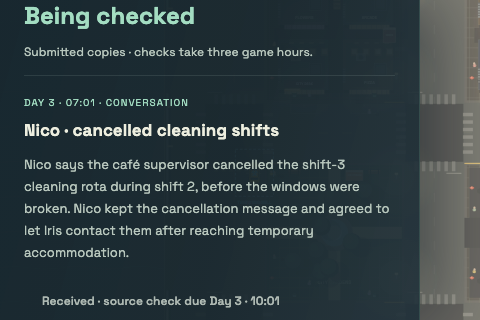
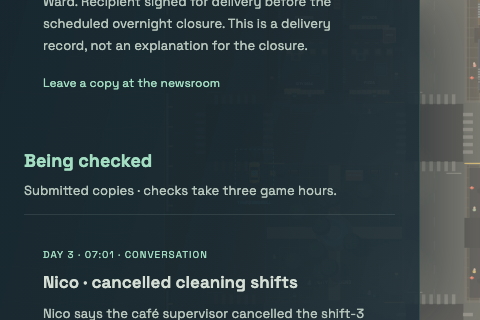
Group newsroom sources into selectable rows with Back-first pane focus

diff --git a/src/campaign/newsroom-view.test.ts b/src/campaign/newsroom-view.test.ts
@@ -49,23 +49,26 @@ describe('newsroom drawer', () => {
     expect(records.checking.map(e => e.id)).toEqual(['cleaner-note']);
     expect(records.checked).toEqual([]);
     const html = newsroomMarkup(game);
-    for (const [key, title] of [['to-submit', 'To submit'], ['checking', 'Being checked'], ['checked', 'Checked sources'], ['stories', 'Published stories']]) {
+    for (const [key, title] of [['sources', 'Sources'], ['stories', 'Published stories']]) {
       expect(html).toContain(`data-newsroom-section="${key}"`);
       expect(html).toContain(`<span>${title}</span>`);
       expect(html).toContain(`aria-controls="newsroom-detail" aria-pressed="false"`);
     }
     expect(html).not.toContain('data-record=');
+    const detail = newsroomMarkup(game, 'sources');
     for (const [key, entries] of [['to-submit', records.toSubmit], ['checking', records.checking], ['checked', records.checked]] as const) {
-      const detail = newsroomMarkup(game, key);
+      expect(html).not.toContain(`data-newsroom-section="${key}"`);
+      expect(detail).toContain(`id="newsroom-${key}"`);
+      const group = detail.split(`id="newsroom-${key}"`)[1].split('</section>')[0];
       for (const entry of entries) {
         expect(detail.match(new RegExp(`data-record="${entry.id}"`, 'g'))).toHaveLength(1);
-        expect(detail).toContain(recordMarkup(game, entry));
+        expect(group).toContain(recordMarkup(game, entry, true, true));
       }
       for (const id of ['conversation', 'ordinary-fare', 'bea-repair']) expect(detail).not.toContain(`data-record="${id}"`);
     }
-    expect(newsroomMarkup(game, 'checking')).toContain(`source check due ${calendarLabel(game.save.campaign.newsroom.received['cleaner-note'].at + 180)}`);
-    expect(newsroomMarkup(game, 'checking')).not.toContain('data-record="cafe-photo"');
-    expect(newsroomMarkup(game, 'to-submit')).not.toContain('data-record="cleaner-note"');
+    expect(detail).toContain(`source check due ${calendarLabel(game.save.campaign.newsroom.received['cleaner-note'].at + 180)}`);
+    expect(detail.indexOf('id="newsroom-to-submit"')).toBeLessThan(detail.indexOf('id="newsroom-checking"'));
+    expect(detail.indexOf('id="newsroom-checking"')).toBeLessThan(detail.indexOf('id="newsroom-checked"'));
     // A duplicated legacy entry cannot inflate the source list or summary.
     game.save.playerRecords.notebook.push({ ...records.toSubmit[0] });
     expect(newsroomRecords(game).toSubmit).toHaveLength(2);
@@ -80,10 +83,34 @@ describe('newsroom drawer', () => {
     game.advanceNarrativeTo(game.save.campaign.minute + 1);
     expect(newsroomRecords(game).checking).toEqual([]);
     expect(newsroomRecords(game).checked.map(e => e.id)).toEqual(['cleaner-note']);
-    expect(newsroomMarkup(game, 'checked')).toContain('Source checked · copy retained');
-    expect(newsroomMarkup(game, 'checked')).toContain('Verified material, not necessarily a complete story.');
+    expect(newsroomMarkup(game, 'sources')).toContain('Source checked · copy retained');
+    expect(newsroomMarkup(game, 'sources')).toContain('Verified material, not necessarily a complete story.');
     expect(newsroomMarkup(game, 'stories')).not.toContain('data-story=');
     expect(game.save.playerRecords.notebook).toHaveLength(1);
+  });
+
+  it('starts the detail pane with Back and makes every source one selectable row with only valid actions', () => {
+    const game = new Game(undefined, false);
+    game.start(); game.player.body.position = { ...game.newsroom }; game.setMode('paused');
+    collect(game, 'cafe-photo', 'cleaner-note', 'barrier-receipt');
+    submit(game, 'cleaner-note'); game.advanceNarrativeTo(game.save.campaign.minute + 180);
+    submit(game, 'barrier-receipt');
+    const html = newsroomMarkup(game, 'sources').split('id="newsroom-detail"')[1];
+    expect(html.indexOf('id="newsroom-menu"')).toBeLessThan(html.indexOf('id="newsroom-detail-title"'));
+    expect(html.match(/class="menu-item newsroom-source"/g)).toHaveLength(3);
+    for (const id of ['cafe-photo', 'cleaner-note', 'barrier-receipt']) {
+      const row = html.split(`data-record="${id}"`)[1].split('</article>')[0];
+      expect(row.match(/<button /g)).toHaveLength(1);
+      expect(row).not.toMatch(/\sdisabled(?:\s|>)/);
+      expect(row).toContain(`id="submit-${id}"`);
+      if (id === 'cafe-photo') {
+        expect(row).toContain('data-submit="cafe-photo"');
+        expect(row).not.toContain('aria-disabled');
+      } else {
+        expect(row).toContain('aria-disabled="true"');
+        expect(row).not.toContain('data-submit');
+      }
+    }
   });
 
   it('does not equate a checked source or a fully collected route with a ready story', () => {
@@ -136,9 +163,9 @@ describe('newsroom drawer', () => {
     game.save.campaign.minute = LAST_EDITION;
     expect(newsroomSummary(game)).toMatchObject({ toSubmit: 1, ready: 0, closed: true });
     expect(newsroomMarkup(game)).toContain('The final edition has closed.');
-    expect(newsroomMarkup(game, 'to-submit')).toContain('Final edition closed · unsubmitted copies retained.');
+    expect(newsroomMarkup(game, 'sources')).toContain('Final edition closed · unsubmitted copies retained.');
     expect(newsroomMarkup(game, 'stories')).toContain('Publication deadline passed.');
-    expect(newsroomMarkup(game, 'to-submit')).toContain('Edition closed · record retained');
+    expect(newsroomMarkup(game, 'sources')).toContain('Edition closed · record retained');
     expect(newsroomSummary(game).summary).toContain('1 source not submitted');
     game.save.campaign.minute = 600; game.save.campaign.finished = true;
     expect(newsroomSummary(game)).toMatchObject({ ready: 0, closed: true });

diff --git a/src/campaign/newsroom-view.ts b/src/campaign/newsroom-view.ts
@@ -6,7 +6,7 @@ import { editorialMarkup, recordMarkup } from './view';
 
 /** Route membership, not merely authored-material membership, makes a publication source. */
 const publicationSources = (game: Game) => new Set(Object.values(game.campaignContent.claims).flatMap(claim => claim.routes.flat()));
-const sections = { 'to-submit': 'To submit', checking: 'Being checked', checked: 'Checked sources', stories: 'Published stories' } as const;
+const sections = { sources: 'Sources', stories: 'Published stories' } as const;
 export type NewsroomSection = keyof typeof sections;
 export const isNewsroomSection = (id: string): id is NewsroomSection => Object.hasOwn(sections, id);
 
@@ -39,23 +39,20 @@ export function newsroomSummary(game: Game) {
 export function newsroomMarkup(game: Game, selected: NewsroomSection | null = null): string {
   const { summary, closed } = newsroomSummary(game);
   const records = newsroomRecords(game);
-  const list = (entries: typeof records.toSubmit, empty: string) => entries.length ? entries.map(entry => recordMarkup(game, entry, true)).join('') : `<p class="newsroom-empty">${empty}</p>`;
+  const list = (entries: typeof records.toSubmit, empty: string) => entries.length ? entries.map(entry => recordMarkup(game, entry, true, true)).join('') : `<p class="newsroom-empty">${empty}</p>`;
+  const group = (id: string, title: string, description: string, entries: typeof records.toSubmit, empty: string) => `<section class="newsroom-source-group" aria-labelledby="newsroom-${id}"><h4 id="newsroom-${id}">${title}</h4><p>${description}</p><div class="notebook-entries">${list(entries, empty)}</div></section>`;
   let copy = '', body = '';
   switch (selected) {
-    case 'to-submit':
-      copy = closed ? 'Final edition closed · unsubmitted copies retained.' : 'Collected publication sources · bring copies to the newsroom.';
-      body = list(records.toSubmit, 'No collected sources awaiting submission.'); break;
-    case 'checking':
-      copy = 'Submitted copies · checks take three game hours.';
-      body = list(records.checking, 'No source checks underway.'); break;
-    case 'checked':
-      copy = 'Verified material, not necessarily a complete story.';
-      body = list(records.checked, 'No checked sources yet.'); break;
+    case 'sources':
+      copy = 'All collected publication sources, grouped by status.';
+      body = group('to-submit', 'To submit', closed ? 'Final edition closed · unsubmitted copies retained.' : 'Bring copies to the newsroom.', records.toSubmit, 'No collected sources awaiting submission.')
+        + group('checking', 'Being checked', 'Submitted copies · checks take three game hours.', records.checking, 'No source checks underway.')
+        + group('checked', 'Checked sources', 'Verified material, not necessarily a complete story.', records.checked, 'No checked sources yet.'); break;
     case 'stories':
       copy = 'Editorial review, scheduled editions and publications.';
       body = editorialMarkup(game) || '<p class="newsroom-empty">No stories at the editor’s desk yet.</p>'; break;
   }
-  return `<div class="newsroom-columns"><div class="newsroom-menu-panel">
+  return `<div class="newsroom-columns"><div class="newsroom-menu-panel" data-menu-scope><div class="newsroom-menu-content">
     <div class="intro-eyebrow">DISPATCH / RECORDS</div><h2 id="modal-title">Newsroom.</h2>
     <p class="intro-copy" id="newsroom-summary">${summary}</p>
     <p>${closed ? 'The final edition has closed. Your collected records are retained.' : 'A useful source is not necessarily a complete story. Bring copies to the newsroom for source checks, then visit the editor when a story is ready.'}</p>
@@ -63,11 +60,11 @@ export function newsroomMarkup(game: Game, selected: NewsroomSection | null = nu
       ${menuItem(game.navToNewsroom ? 'Cancel newsroom route' : 'Route to newsroom', { id: 'notebook-route' })}
       ${Object.entries(sections).map(([id, label]) => `<button class="menu-item" id="newsroom-open-${id}" data-newsroom-section="${id}" aria-controls="newsroom-detail" aria-pressed="${selected === id}"><span>${label}</span></button>`).join('')}
       ${menuItem('Back to the streets', { id: 'start' })}
-    </nav><p class="menu-hint" id="menu-hint"></p></div>
-    <section class="newsroom-section" id="newsroom-detail" aria-labelledby="newsroom-detail-title" tabindex="-1">
+    </nav><p class="menu-hint" id="menu-hint"></p></div></div>
+    <section class="newsroom-section" id="newsroom-detail" aria-labelledby="newsroom-detail-title" data-menu-scope tabindex="-1">
+      ${selected ? menuItem('Back', { id: 'newsroom-menu' }) : ''}
       <h3 id="newsroom-detail-title">${selected ? selected === 'stories' ? 'Stories' : sections[selected] : 'Your newsroom records'}</h3>
       <p>${selected ? copy : 'Choose a section to view collected sources, source checks or stories.'}</p>
       <div class="notebook-entries">${body}</div>
-      ${selected ? menuItem('Back to newsroom menu', { id: 'newsroom-menu' }) : ''}
     </section></div>`;
 }

diff --git a/src/game-drawer.ts b/src/game-drawer.ts
@@ -25,15 +25,17 @@ export class GameDrawer {
     this.menu = new DrawerMenu(root, () => this.active && !this.transition && !root.closest('[inert]'));
     root.addEventListener('click', event => {
       const button = event.target instanceof Element ? event.target.closest<HTMLButtonElement>('button') : null;
-      if (!this.active || this.transition || !button || button.disabled) return;
+      if (!this.active || this.transition || !button || button.disabled || button.getAttribute('aria-disabled') === 'true') return;
       const game = options.game(), page = button.dataset.page;
       if (page && isDrawerPage(page)) { void this.open(page); return; }
       if (this.page === 'newsroom' && button.dataset.newsroomSection && isNewsroomSection(button.dataset.newsroomSection)) {
         this.newsroomSection = button.dataset.newsroomSection;
         this.refresh();
-        if (!matchMedia('(min-width:1000px)').matches) {
-          const detail = this.root.querySelector<HTMLElement>('#newsroom-detail');
-          detail?.focus({ preventScroll: true }); detail?.scrollIntoView({ block: 'start' });
+        const detail = this.root.querySelector<HTMLElement>('#newsroom-detail');
+        if (detail) {
+          this.menu.focusScope(detail);
+          detail.scrollTop = 0;
+          if (!matchMedia('(min-width:1000px)').matches) detail.scrollIntoView({ block: 'start' });
         }
         return;
       }
@@ -44,7 +46,7 @@ export class GameDrawer {
         case 'ordinary-fare': game.newJob(false, 'replaced', true); options.play(); break;
         case 'abandon-ride': game.newJob(false, 'shift'); this.refresh(); break;
         case 'notebook-route': options.play(); game.navigateNewsroom(); break;
-        case 'newsroom-menu': this.root.querySelector<HTMLElement>(`#newsroom-open-${this.newsroomSection}`)?.focus(); this.root.scrollTop = 0; break;
+        case 'newsroom-menu': this.focusNewsroomMenu(); break;
       }
       if (button.dataset.submit && game.submitMaterial(button.dataset.submit)) this.refresh();
       if (button.dataset.publish && game.requestPublication(button.dataset.publish as Allegation)) this.refresh();
@@ -93,7 +95,11 @@ export class GameDrawer {
     this.paint(animate ? backwards ? -1 : 1 : 0);
   }
   back() {
-    if (this.page === 'newsroom') { this.options.play(); return true; }
+    if (this.page === 'newsroom') {
+      if (this.root.querySelector('#newsroom-detail')?.contains(document.activeElement)) this.focusNewsroomMenu();
+      else this.options.play();
+      return true;
+    }
     const parent = drawerParent(this.page, this.entry);
     if (!parent) return false;
     void this.open(parent); return true;
@@ -119,6 +125,10 @@ export class GameDrawer {
     const samePage = this.root.dataset.page === this.page;
     const selected = samePage ? this.menu.selectionId : this.selections.get(this.page);
     const scroll = samePage ? this.root.scrollTop : 0;
+    const detail = this.root.querySelector<HTMLElement>('#newsroom-detail');
+    const detailFocused = samePage && detail?.contains(document.activeElement);
+    const detailScroll = samePage ? detail?.scrollTop ?? 0 : 0;
+    const menuScroll = samePage ? this.root.querySelector('.newsroom-menu-panel')?.scrollTop ?? 0 : 0;
     const search = samePage ? this.root.querySelector<HTMLInputElement>('#notebook-search')?.value : '';
     this.root.dataset.page = this.page;
     this.root.classList.add('splash-modal');
@@ -128,8 +138,19 @@ export class GameDrawer {
     this.refreshSettings = bindSettingControls(this.root, Object.values(this.settings));
     this.setInputDevice(this.device);
     this.menu.reset(selected);
+    const nextDetail = this.root.querySelector<HTMLElement>('#newsroom-detail');
+    if (detailFocused && nextDetail && !nextDetail.contains(document.activeElement)) this.menu.focusScope(nextDetail);
+    if (nextDetail) nextDetail.scrollTop = detailScroll;
+    const menuPanel = this.root.querySelector('.newsroom-menu-panel');
+    if (menuPanel) menuPanel.scrollTop = menuScroll;
     this.root.scrollTop = scroll;
     if (!samePage) this.root.querySelector<HTMLElement>('[data-selected]')?.scrollIntoView({ block: 'nearest', inline: 'nearest' });
+    else if (detailFocused) nextDetail?.querySelector<HTMLElement>('[data-selected]')?.scrollIntoView({ block: 'nearest', inline: 'nearest' });
+  }
+  private focusNewsroomMenu() {
+    this.root.querySelector<HTMLElement>(`#newsroom-open-${this.newsroomSection}`)?.focus({ preventScroll: true });
+    if (!matchMedia('(min-width:1000px)').matches) this.root.scrollTop = 0;
+    this.root.querySelector<HTMLElement>(`#newsroom-open-${this.newsroomSection}`)?.scrollIntoView({ block: 'nearest' });
   }
   private filterNotebook() {
     const query = this.root.querySelector<HTMLInputElement>('#notebook-search')!.value.toLocaleLowerCase();

diff --git a/src/drawer.css b/src/drawer.css
@@ -40,16 +40,29 @@
 @media(max-width:420px){.credit-row{grid-template-columns:1fr;gap:2px}}
 @media(prefers-reduced-motion:reduce){.credit-row{transition:none}}
 .splash-modal .notebook-actions{flex-direction:column}.splash-modal .campaign-summary{margin-top:0}.drawer-page>p,.splash-modal .notebook-entries p{font-size:13px;line-height:1.7;color:#b8c7bd}.splash-modal .eyebrow{line-height:1.7}
-/* Newsroom keeps notebook widgets and one scroll surface, widening only on desktop. */
+/* Desktop panes scroll independently; mobile retains the single-column flow. */
 .splash-modal[data-page="newsroom"]{background:linear-gradient(105deg,#14242cf5 0%,#17262df0 55%,#203039eb 100%);user-select:text}
 .newsroom-columns{display:grid;grid-template-columns:minmax(0,1fr);gap:28px}
 .newsroom-columns>div{min-width:0}
-.newsroom-menu-panel>p{font-size:13px;line-height:1.7;color:#b8c7bd}
-.newsroom-menu-panel>.intro-copy{font-size:14px;color:#aebcaf;margin-bottom:22px}
+.newsroom-menu-content>p{font-size:13px;line-height:1.7;color:#b8c7bd}
+.newsroom-menu-content>.intro-copy{font-size:14px;color:#aebcaf;margin-bottom:22px}
 .newsroom-section{min-width:0;overflow-wrap:anywhere}
 .newsroom-section:focus{outline:none}
+.newsroom-section[data-selected]>h3{color:var(--gold)}
 .newsroom-section>h3{font-size:24px;margin:0 0 12px;color:var(--mint)}
 .newsroom-section>p{font-size:12px;line-height:1.65;color:#b8c7bd;margin:0 0 12px}
+.newsroom-source-group{margin:24px 0}
+.newsroom-source-group>h4{font-size:18px;color:var(--mint);margin:0 0 8px}
+.newsroom-source-group>p{font-size:12px;line-height:1.65;color:#b8c7bd;margin:0 0 12px}
+.splash-modal .newsroom-source.menu-item{position:relative;display:block;padding:16px;text-align:left;font-weight:400}
+.newsroom-source::after{position:absolute;top:14px;right:12px}
+.newsroom-source>span{display:block}
+.newsroom-source .source-meta{color:var(--mint);font-size:10px;letter-spacing:1px;line-height:1.7;padding-right:12px}
+.newsroom-source .source-title{font-size:17px;font-weight:600;line-height:1.4;margin:8px 0}
+.newsroom-source .source-text{font-size:13px;line-height:1.7;color:#b8c7bd}
+.newsroom-source .source-action{font-size:12px;line-height:1.7;margin-top:16px;color:var(--mint)}
+.newsroom-source[aria-disabled="true"] .source-action{color:#aebcaf}
+.newsroom-section>#newsroom-menu{margin-bottom:20px}
 .newsroom-section .notebook-entries article{padding:14px 0}
 .newsroom-section .notebook-entries h3{font-size:17px;margin:8px 0;letter-spacing:0}
 .newsroom-section .notebook-entries small{line-height:1.7}
@@ -58,10 +71,12 @@
 .splash-modal .menu-item[aria-pressed="true"]{border-left-color:var(--mint);background:#a3ddc210}
 .newsroom-empty{margin:0;padding:12px 0;border-top:1px solid var(--border)}
 @media(min-width:1000px){
-  .splash-modal[data-page="newsroom"]{width:min(1080px,100vw)}
-  [data-page="newsroom"] .newsroom-columns{grid-template-columns:minmax(0,380px) minmax(0,1fr);gap:48px}
-  [data-page="newsroom"] .newsroom-section{padding-top:44px}
-  [data-page="newsroom"] #newsroom-menu{display:none}
+  .splash-modal[data-page="newsroom"]{width:min(1080px,100vw);overflow:hidden}
+  [data-page="newsroom"] .drawer-page{height:100%;min-height:0;flex-shrink:1;margin-block:0}
+  [data-page="newsroom"] .newsroom-columns{height:100%;min-height:0;grid-template-columns:minmax(0,380px) minmax(0,1fr);grid-template-rows:minmax(0,1fr);gap:48px}
+  [data-page="newsroom"] .newsroom-menu-panel{display:flex;overflow-y:auto;min-height:0;overscroll-behavior:contain}
+  [data-page="newsroom"] .newsroom-menu-content{flex:0 0 auto;width:100%;min-width:0;margin-block:auto;padding:3px}
+  [data-page="newsroom"] .newsroom-section{min-height:0;overflow-y:auto;overscroll-behavior:contain;padding:44px 3px 3px}
 }
 .drawer-entering{animation:drawer-in .24s cubic-bezier(.2,.75,.25,1) both}
 @keyframes drawer-in{from{opacity:0;transform:translateX(calc(18px * var(--drawer-direction,1)))}to{opacity:1;transform:translateX(0)}}

diff --git a/src/campaign/view.ts b/src/campaign/view.ts
@@ -8,11 +8,14 @@ import { VERIFICATION_MINUTES } from './scheduler';
 export const escape = (text: string) => text.replace(/[&<>"']/g, char => ({ '&': '&amp;', '<': '&lt;', '>': '&gt;', '"': '&quot;', "'": '&#39;' })[char]!);
 
 /** Shared notebook record widget; general notes can explicitly omit source controls. */
-export function recordMarkup(game: Game, entry: NotebookEntry, source = Object.hasOwn(game.campaignContent.materials, entry.id)): string {
+export function recordMarkup(game: Game, entry: NotebookEntry, source = Object.hasOwn(game.campaignContent.materials, entry.id), selectable = false): string {
   const campaign = game.save.campaign, closed = campaign.minute >= LAST_EDITION || campaign.finished;
   const receipt = campaign.newsroom.received[entry.id];
   const label = receipt ? receipt.verifiedAt !== null ? 'Source checked · copy retained' : `Received · source check due ${calendarLabel(receipt.at + VERIFICATION_MINUTES)}` : closed ? 'Edition closed · record retained' : game.newsroomNear ? 'Leave a copy at the newsroom' : `Bring to ${escape(game.campaignContent.newsroom.name)}`;
-  return `<article data-record="${escape(entry.id)}"><small>${entry.minute !== undefined ? calendarLabel(entry.minute).toUpperCase() : `DAY ${entry.shift}`} · ${entry.kind.toUpperCase()}</small><h3>${escape(entry.title)}</h3><p>${escape(entry.text)}</p>${source ? `<button class="menu-item" id="submit-${escape(entry.id)}" data-submit="${escape(entry.id)}" ${receipt || !game.newsroomNear || closed ? 'disabled' : ''}>${label}</button>` : ''}</article>`;
+  const metadata = `${entry.minute !== undefined ? calendarLabel(entry.minute).toUpperCase() : `DAY ${entry.shift}`} · ${entry.kind.toUpperCase()}`;
+  const available = source && !receipt && game.newsroomNear && !closed;
+  if (selectable) return `<article data-record="${escape(entry.id)}"><button class="menu-item newsroom-source" id="submit-${escape(entry.id)}" ${available ? `data-submit="${escape(entry.id)}"` : 'aria-disabled="true"'}><span class="source-meta">${metadata}</span><span class="source-title">${escape(entry.title)}</span><span class="source-text">${escape(entry.text)}</span><span class="source-action">${label}</span></button></article>`;
+  return `<article data-record="${escape(entry.id)}"><small>${metadata}</small><h3>${escape(entry.title)}</h3><p>${escape(entry.text)}</p>${source ? `<button class="menu-item" id="submit-${escape(entry.id)}" data-submit="${escape(entry.id)}" ${available ? '' : 'disabled'}>${label}</button>` : ''}</article>`;
 }
 
 /** Only admitted cases are shown here; detailed incomplete-story guidance is separate. */

diff --git a/src/drawer-menu.ts b/src/drawer-menu.ts
@@ -42,8 +42,8 @@ export class DrawerMenu {
       } else { this.select(item); this.touchArmed = null; }
     }, true);
   }
-  private items() {
-    return Array.from(this.root.querySelectorAll<HTMLElement>('button:not(:disabled), input:not(:disabled), select:not(:disabled), a[href]'))
+  private items(scope = this.selected?.closest<HTMLElement>('[data-menu-scope]') ?? this.root) {
+    return Array.from(scope.querySelectorAll<HTMLElement>('button:not(:disabled), input:not(:disabled), select:not(:disabled), a[href]'))
       .filter(item => !item.hidden && item.getClientRects().length > 0);
   }
   private item(target: EventTarget | null) {
@@ -61,17 +61,23 @@ export class DrawerMenu {
   get selectionId() { return this.selected?.id; }
   reset(id?: string) {
     this.touchArmed = null; this.pointerType = '';
-    const items = this.items();
+    const items = this.items(this.root);
     const item = items.find(item => item.id === id) ?? items[0];
     this.selected = null;
     if (item) this.select(item);
+  }
+  /** Activated two-pane menus navigate within the pane until explicitly returning. */
+  focusScope(scope: HTMLElement) {
+    this.touchArmed = null;
+    const first = this.items(scope)[0];
+    if (first) this.select(first);
   }
   move(delta: number) {
     const items = this.items();
     if (!items.length) return;
     this.touchArmed = null;
     const current = items.indexOf(this.selected!);
-    this.select(items[(Math.max(0, current) + delta + items.length) % items.length]);
+    this.select(items[current < 0 ? delta > 0 ? 0 : items.length - 1 : (current + delta + items.length) % items.length]);
     this.selected?.scrollIntoView({ block: 'nearest' });
   }
   adjust(delta: number) {

diff --git a/docs/newsroom-interactions-plan.md b/docs/newsroom-interactions-plan.md
@@ -75,9 +75,19 @@ for a publishable story in the Newsroom panel.
 
 Implemented as the third slice, with the clarified menu/detail layout:
 
-- The first desktop column contains Route to newsroom, To submit, Being checked,
-  Checked sources, Published stories and Back to the streets. Activating a section
-  fills the second column; focus, hover and directional selection alone do not.
+- The first desktop column contains Route to newsroom, Sources, Published stories
+  and Back to the streets. Activating a section fills the second column; focus,
+  hover and directional selection alone do not. Sources shows all collected
+  publication material together, grouped into To submit, Being checked and
+  Checked sources.
+- Activation moves selection to the right pane's first item, Back. Each entire
+  source record is a selectable, gold-accented row. Enter/click (or touch
+  select/confirm) acts directly on the record when submission is available;
+  checking, checked and otherwise unavailable records remain selectable without
+  offering invalid actions. Selection follows a submitted record into its new group.
+- Desktop panes scroll independently and the left menu is vertically aligned
+  independently of right-pane content. Keyboard/controller navigation stays in
+  the selected pane until Back/Escape returns to the left menu.
 - The panel has no Other notes section or Dispatch notebook link. General
   conversations, ordinary fare history and authored non-publication material stay
   in the ordinary pause notebook and do not appear in publication-source lists.
@@ -86,7 +96,7 @@ Implemented as the third slice, with the clarified menu/detail layout:
   The story pane retains authoritative editorial readiness, scheduled editions
   and published editions, without exposing incomplete routes or future material.
 - Mobile uses the same menu and selected detail in a single-column flow, with a
-  Back to newsroom menu action. All actions retain the existing physical-visit,
+  Back action at the start of the detail pane. All actions retain the existing physical-visit,
   source-check, editorial-approval, dependency and deadline rules.
 - Detailed explanations for incomplete stories remain step 4.
 
@@ -188,22 +198,28 @@ Screenshots from the actual HUD entry:
   retained copies, exact check boundaries, editorial dependencies and deadlines.
 - `node tools/newsroom-check.mjs` checks the standalone HTML offline in six
   desktop/touch layouts: left-menu/right-detail geometry, mobile stacking,
-  explicit activation versus mere selection, actual completion times, physical
+  explicit activation versus mere selection, Back-first focus transfer, whole-source
+  gold selection and direct actions, independent pane navigation/scrolling, stable
+  left-menu alignment, actual completion times, physical
   submission restrictions, submit → check → request → edition, save reload,
   source retention, keyboard wrapping, touch confirmation, controller activation,
   44 px controls, safe areas, paused clocks and realtime restoration.
 - `SCREENSHOT_DIR=scenario-runs/start-pause node tools/splash-check.mjs`,
   `node tools/navigation-hud-check.mjs` and `node tools/observations-check.mjs`
   retain shared-drawer and physical desktop/touch driving/riding coverage.
-- `npm test -- --testTimeout=30000`: 59 files / 743 tests passed.
+- `npm test` (default timeout): 743 tests passed; the existing countryside test
+  “pursues a rural sighting over Pine Bridge and follows the ridge bends” reached
+  the 5-second timeout, including when rerun alone. No timeout override or
+  simulation shortening was applied. All nine Newsroom unit tests passed.
 - `npm run build`: strict TypeScript and standalone production build passed.
 - Browser checks completed without console errors or external runtime requests.
 
-| Desktop: menu and selected sources | Desktop: source check completion time |
+| Desktop: Back-first source pane | Desktop: whole-source selection |
 | --- | --- |
-| ![Left menu and selected To submit record widgets](screenshots/newsroom-sections/desktop-summary.png) | ![Being checked pane with actual completion time](screenshots/newsroom-sections/desktop-checking.png) |
+| ![Left menu and grouped source pane with Back selected first](screenshots/newsroom-sections/desktop-summary.png) | ![Entire source record selected with gold accent](screenshots/newsroom-sections/desktop-source-selected.png) |
 
+[Source check completion time](screenshots/newsroom-sections/desktop-checking.png) ·
 [Editorial readiness](screenshots/newsroom-sections/desktop-ready.png) ·
 [Published edition](screenshots/newsroom-sections/desktop-published.png) ·
-[Portrait source check](screenshots/newsroom-sections/portrait-checking.png) ·
+[Portrait whole-source selection](screenshots/newsroom-sections/portrait-source-selected.png) ·
 [Compact landscape source check](screenshots/newsroom-sections/landscape-480-checking.png)
